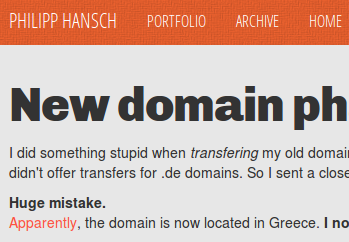
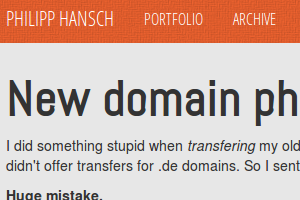
Improved the look of the portfolio section. #36

diff --git a/portfolio/index.html b/portfolio/index.html
@@ -35,9 +35,6 @@ title: Portfolio
       <div class="col-lg-4 col-sm-12">
         <h2><span class="glyphicon glyphicon-user"></span> Contact</h2>
           <p><span class="glyphicon glyphicon-envelope"></span> <a href="mainto:desk@phansch.net">desk@phansch.net</a></p>
-
-        
-
       </div>
     </div>
   </div>
@@ -46,53 +43,66 @@ title: Portfolio
 
 <div id="folio-overview">
   <div class="container">
-    <h2 class="text-left">Games</h2>
+    <h2 class="text-left"><span class="glyphicon glyphicon-chevron-right"></span>
+Games</h2>
 
     <div class="row">
       {% for page in site.pages %}
         {% if page.scope == "portfolio" and page.category == "games" %}
           <div class="col-md-4">
-            <a href="{{page.url}}" class="thumbnail">
-              <img src="{{page.thumbnail}}" alt="Screenshot">
-            </a>
-            <h3>{{page.title}}{% if page.new %} <span class="label label-primary">New</span>{% endif %}</h3>
-            <p style="text-align:justify">{{page.subtitle}}<br />
-            <strong>Technologies:</strong>
-            {% for technology in page.used %}
-            <span class="label label-default">{{ technology }}</span> 
-            {% endfor %}
-            </p>
-            <a href="{{ page.url }}"><button type="button" class="btn btn-default"><span class="glyphicon glyphicon-fullscreen"></span> More information</button></a>
-            {% if page.exe %}
-            <a href="{{ page.exe }}"><button type="button" class="btn btn-default"><span class="glyphicon glyphicon-save"></span> .exe</button></a>
-            {% endif %}
-            <a href="http://github.com/phansch/{{ page.title }}"><button type="button" class="btn btn-default"><span class="glyphicon glyphicon-share"></span> GitHub</button></a>
+            <div class="thumbnail">
+              <a href="{{page.url}}">
+                <img class="thumb" src="{{page.thumbnail}}" alt="Screenshot">
+              </a>
+              <h3>{{page.title}}{% if page.new %} <span class="label label-primary">New</span>{% endif %}</h3>
+              <p>{{page.subtitle}}</p>
+              <div class="tech">
+                {% for technology in page.used %}
+                <span class="label label-primary">{{ technology }}</span><br />
+                {% endfor %}
+              </div>
+              <div class="buttons">
+                <a href="{{ page.url }}"><button type="button" class="btn btn-default btn-sm"><span class="glyphicon glyphicon-chevron-right"></span> More information</button></a>
+                {% if page.exe %}
+                <a href="{{ page.exe }}"><button type="button" class="btn btn-default btn-sm"><span class="glyphicon glyphicon-save"></span> .exe</button></a>
+                {% else %}
+                <button type="button" class="btn btn-default btn-sm disabled"><span class="glyphicon glyphicon-save"></span> .exe</button>
+                {% endif %}
+                <a href="http://github.com/phansch/{{ page.title }}"><button type="button" class="btn btn-default btn-sm"><span class="glyphicon glyphicon-share"></span> GitHub</button></a>
+              </div>
+            </div>
           </div>
         {% endif %}
       {% endfor %}
     </div>
-    <hr />
-    <h2 class="text-left">Miscellaneous</h2>
+
+    <h2 class="text-left"><span class="glyphicon glyphicon-chevron-right"></span> Miscellaneous</h2>
 
     <div class="row">
       {% for page in site.pages %}
         {% if page.scope == "portfolio" and page.category == "misc" %}
           <div class="col-md-4">
-            <a href="{{page.url}}" class="thumbnail">
-              <img src="{{page.thumbnail}}" alt="Screenshot">
-            </a>
-            <h3>{{page.title}}{% if page.new %} <span class="label label-primary">New</span>{% endif %}</h3>
-            <p style="text-align:justify">{{page.subtitle}}<br />
-            <strong>Technologies:</strong>
-            {% for technology in page.used %}
-            <span class="label label-default">{{ technology }}</span> 
-            {% endfor %}
-            </p>
-            <a href="{{ page.url }}"><button type="button" class="btn btn-default"><span class="glyphicon glyphicon-fullscreen"></span> More information</button></a>
-            {% if page.exe %}
-            <a href="{{ page.exe }}"><button type="button" class="btn btn-default"><span class="glyphicon glyphicon-save"></span> .exe</button></a>
-            {% endif %}
-            <a href="http://github.com/phansch/{{ page.github }}"><button type="button" class="btn btn-default"><span class="glyphicon glyphicon-share"></span> GitHub</button></a>
+            <div class="thumbnail">
+              <a href="{{page.url}}">
+                <img class="thumb" src="{{page.thumbnail}}" alt="Screenshot">
+              </a>
+              <h3>{{page.title}}{% if page.new %} <span class="label label-primary">New</span>{% endif %}</h3>
+              <p>{{page.subtitle}}</p>
+              <div class="tech">
+                {% for technology in page.used %}
+                <span class="label label-primary">{{ technology }}</span><br />
+                {% endfor %}
+              </div>
+              <div class="buttons">
+                <a href="{{ page.url }}"><button type="button" class="btn btn-default btn-sm"><span class="glyphicon glyphicon-chevron-right"></span> More information</button></a>
+                {% if page.exe %}
+                <a href="{{ page.exe }}"><button type="button" class="btn btn-default btn-sm"><span class="glyphicon glyphicon-save"></span> .exe</button></a>
+                {% else %}
+                <button type="button" class="btn btn-default btn-sm disabled"><span class="glyphicon glyphicon-save"></span> .exe</button>
+                {% endif %}
+                <a href="http://github.com/phansch/{{ page.title }}"><button type="button" class="btn btn-default btn-sm"><span class="glyphicon glyphicon-share"></span> GitHub</button></a>
+              </div>
+            </div>
           </div>
         {% endif %}
       {% endfor %}

diff --git a/assets/themes/phansch/css/portfolio.less b/assets/themes/phansch/css/portfolio.less
@@ -1,5 +1,6 @@
 @text_color: #303030;
 @white_color: #ffffff;
+@light_gray: #9b9b9b;
 @body_bg_color: #e7e7e7;
 @top_bg_color: #EF7632;
 @mid_bg_color: #E1704B;
@@ -11,10 +12,6 @@ hr {
 
 .btn:focus {
 	outline:none;
-}
-
-.thumbnail > img {
-  height:240px;
 }
 
 #folio-top {
@@ -66,6 +63,56 @@ hr {
 	background:@body_bg_color;
 	position:relative;
 	z-index:60;
+  h2 {
+    padding-top:30px;
+    padding-bottom: 15px;
+    text-transform: uppercase;
+    font-family:'Open Sans Condensed', sans-serif;
+  }
+  h3 {
+    font-family:'Open Sans Condensed', sans-serif;
+  }
+  .tech {
+    text-align: left;
+    position:absolute;
+    padding-top: 6px;
+    padding-left: 26px;
+    top:0;
+    left:0;
+    z-index:65;
+    span {
+      line-height:230%;
+    }
+  }
+
+  .thumbnail > a > img {
+    height:200px;
+    border-bottom: 1px solid @light_gray;
+    border-radius: 3px 3px 0 0;
+    -moz-border-radius: 3px 3px 0 0;
+    -webkit-border-radius: 3px 3px 0 0;
+    opacity: 0.9;
+    transition: all 0.3s ease-in-out 0s;
+    box-shadow: 1px 1px 10px 2px rgba(0, 0, 0, 0.2);
+
+  }
+
+  .thumbnail {
+    width:300px;
+    height:350px;
+    padding-top:0px;
+    padding-left:0px;
+    padding-right:0px;
+    p {
+      text-align: justify;
+      padding:0 10px;
+    }
+    .buttons {
+      position:absolute;
+      bottom:10px;
+      left:30px;
+    } 
+  }
 }
 
 #footer {
@@ -74,4 +121,20 @@ hr {
   padding-top:100px;
   background:@body_bg_color;
   z-index:70;
+}
+
+
+/* LESS mixins */
+
+.box-shadow (@x: 0, @y: 0, @blur: 1px, @spread: 1px, @color: #000) {
+  /* Drop shadows do not work in IE */
+  box-shadow: @arguments;
+  -moz-box-shadow: @arguments;
+  -webkit-box-shadow: @arguments;
+}
+
+.border-radius (@radius: 2px) {
+  border-radius: @radius;
+  -moz-border-radius: @radius;
+  -webkit-border-radius: @radius;
 }

diff --git a/_includes/themes/phansch/default.html b/_includes/themes/phansch/default.html
@@ -30,10 +30,22 @@
     {% if page.title == "Portfolio" %}
     <script type="text/javascript">
     $("document").ready(function() {
-     $('#jump').click(function(){
-      $('html, body').animate({
-        scrollTop: $("#folio-mid").offset().top
-      }, 300);
+      $('#jump').click(function(){
+        $('html, body').animate({
+          scrollTop: $("#folio-mid").offset().top
+        }, 300);
+      });
+
+      $(".thumb").hover(function(e) {
+        e.preventDefault();
+        $(this).stop();
+        $(this).animate({opacity:1},200);
+      },
+
+      function(e) {
+        e.preventDefault();
+        $(this).stop();
+        $(this).animate({opacity:0.9},200);
       });
     });
     </script>

diff --git a/portfolio/PiDefender.md b/portfolio/PiDefender.md
@@ -1,7 +1,7 @@
 ---
 layout: portfolio-detail
 title: PiDefender
-subtitle: My January entry for One Game A Month 2013
+subtitle: My January entry for One Game A Month 2013.
 zip: "http://dl.dropbox.com/u/128670221/1GAM/Jan/PiDefender-Final.love"
 exe: "http://dl.dropbox.com/u/128670221/1GAM/Jan/PiDefender-Final.exe"
 scope: portfolio

diff --git a/portfolio/ludumdare25.md b/portfolio/ludumdare25.md
@@ -1,0 +1,13 @@
+---
+layout: portfolio-detail
+title: Ludum Dare 25
+subtitle: My first entry for the Ludum Dare game jam.
+zip: #
+exe: #
+scope: portfolio
+category: games
+thumbnail: "/assets/images/portfolio/phanschnet/thumbnail.png"
+used: [Lua, Love2D]
+---
+
+ * Made a timelapse: http://www.youtube.com/watch?v=eX7fsD3Hbmc

diff --git a/portfolio/phansch.net.md b/portfolio/phansch.net.md
@@ -2,7 +2,7 @@
 layout: portfolio-detail
 title: phansch.net
 github: phansch.github.com
-subtitle: This portfolio and website
+subtitle: My website and portfolio.
 scope: portfolio
 category: misc
 thumbnail: "/assets/images/portfolio/phanschnet/thumbnail.png"

diff --git a/portfolio/UnaryBricks.md b/portfolio/UnaryBricks.md
@@ -1,7 +1,7 @@
 ---
 layout: portfolio-detail
 title: UnaryBricks
-subtitle: A plain and simple breakout clone
+subtitle: A plain and simple breakout clone.
 zip: #
 exe: #
 scope: portfolio
